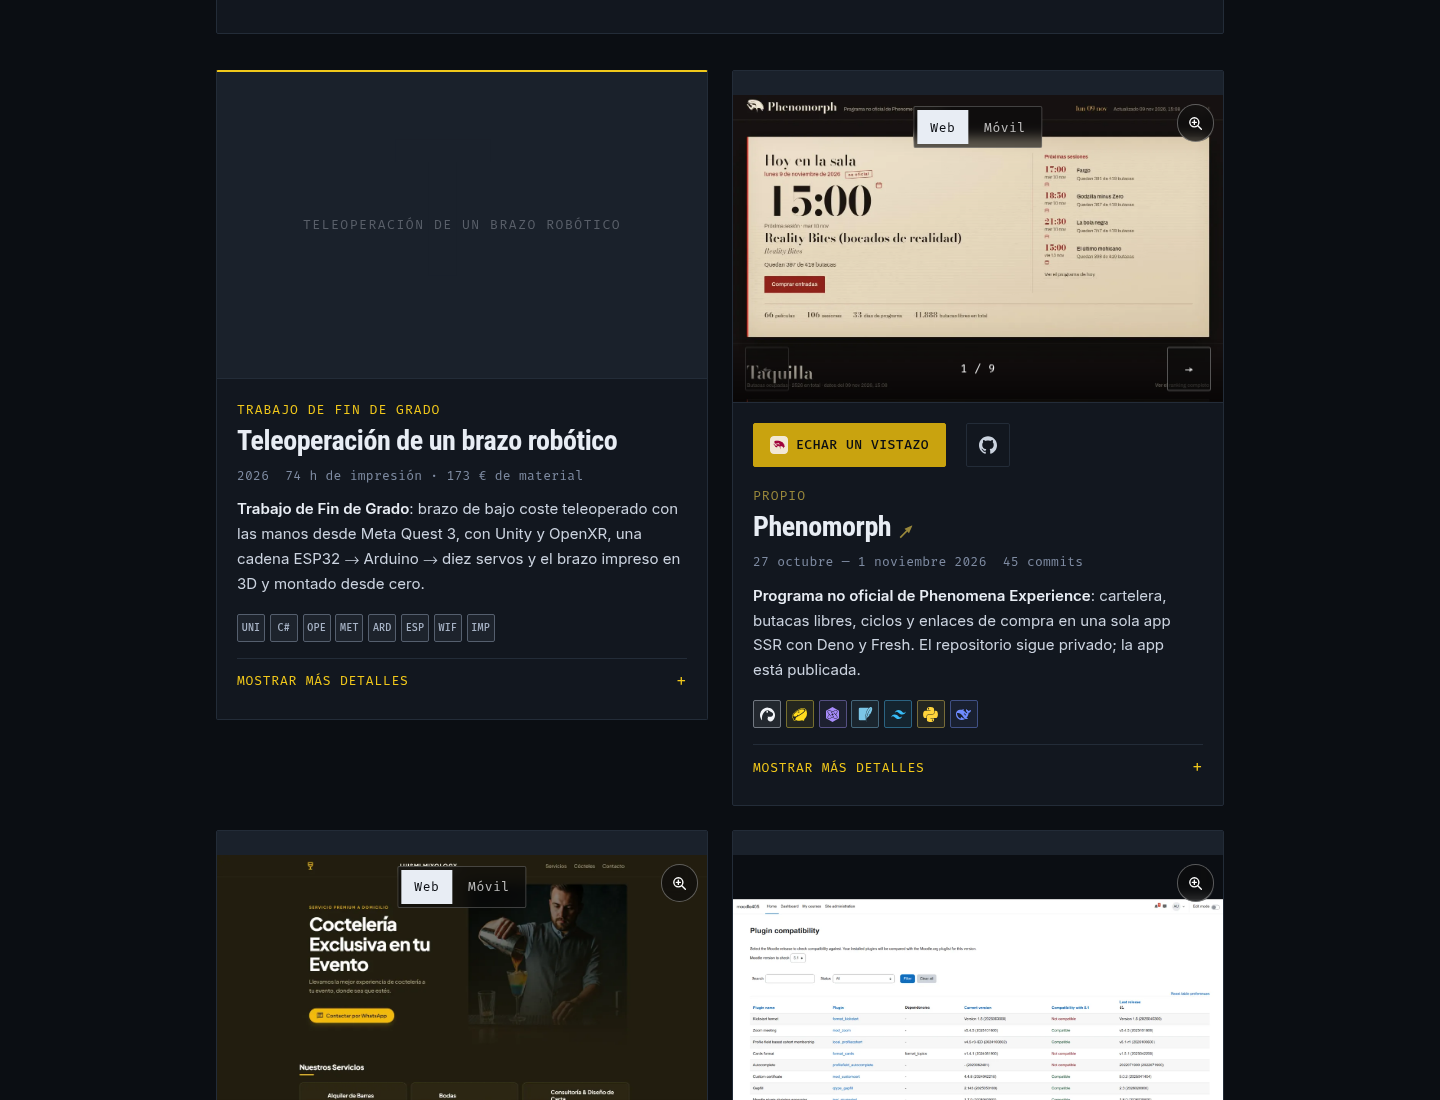
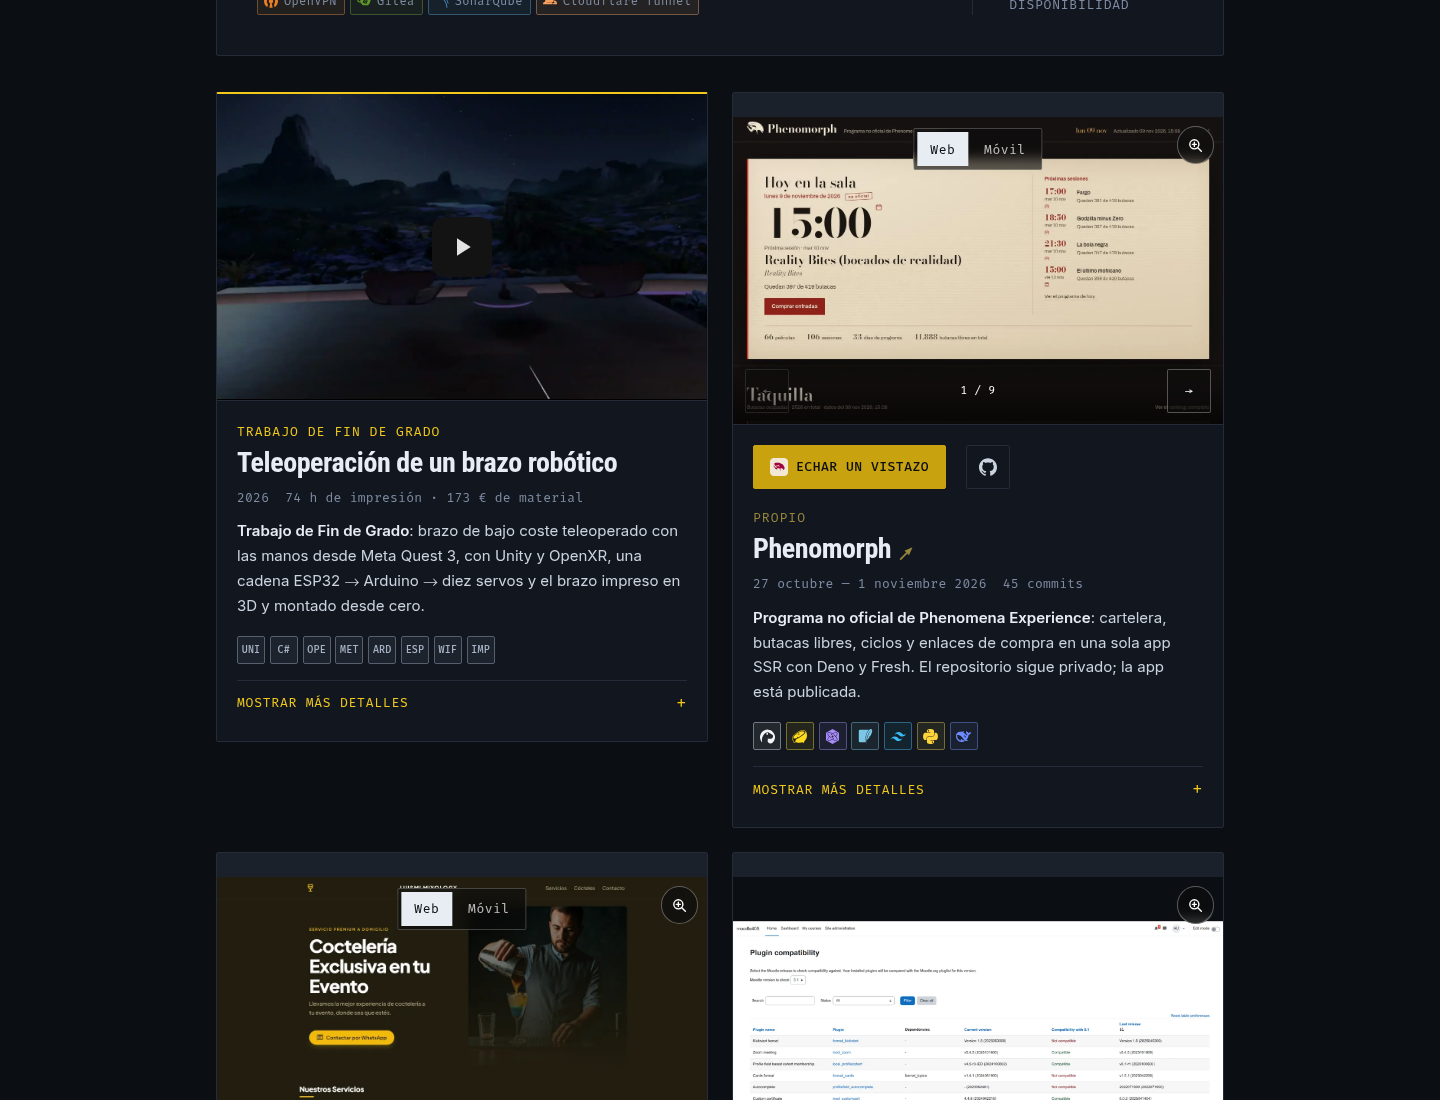
feat(projects): put the TFG video on the cover and its slides in the detail
- Project.video renders an embedded player in place of the cover, with a
  lazy-loaded iframe, a proper title and an explicit black backdrop.
- Captures that lost their slider to the video move into the detail block.
- Two defence slides join the gallery: the control chain (hand -> Quest 3
  -> ESP32 -> Arduino -> arm) and the tools of trade.
- Print hides the player instead of rendering an empty frame.

diff --git a/components/projects/ProjectCard.tsx b/components/projects/ProjectCard.tsx
@@ -51,6 +51,21 @@ function ProjectMedia(
     pack.images.length > 0
   );
 
+  if (project.video !== undefined) {
+    return (
+      <div class="project-cover project-cover--video">
+        <iframe
+          src={project.video.embed}
+          title={project.video.label}
+          loading="lazy"
+          allowFullScreen
+          allow="encrypted-media; picture-in-picture"
+          referrerpolicy="strict-origin-when-cross-origin"
+        />
+      </div>
+    );
+  }
+
   if (packs.length === 0) {
     return (
       <div
@@ -156,6 +171,9 @@ export function ProjectCard(
   );
   const ctaLink = demoLink ?? repoLink ?? project.links[0];
   const secondaryLinks = project.links.filter((link) => link !== ctaLink);
+  const packs = (project.gallery ?? []).filter((pack) =>
+    pack.images.length > 0
+  );
   const titleField = (
     <ProseField
       text={project.name}
@@ -314,6 +332,22 @@ export function ProjectCard(
                 ))}
               </ul>
             </FicheBlock>
+
+            {
+              /* When a video takes the cover, the captures have no slider to
+                live in: they move here, inside the detail block. */
+            }
+            {project.video !== undefined && packs.length > 0 && (
+              <div class="project-details-gallery">
+                <ProjectGallery
+                  groups={packs}
+                  projectSlug={project.slug}
+                  projectName={project.name}
+                  basePath={basePath}
+                  viewLabel={galleryViewLabel}
+                />
+              </div>
+            )}
           </div>
         </details>
       </div>

diff --git a/lib/content-types.ts b/lib/content-types.ts
@@ -297,6 +297,16 @@ export interface ProjectGalleryGroup {
   images: ProjectImage[];
 }
 
+/** A demo video embedded in the card's first-impact area. */
+export interface ProjectVideo {
+  /** Player URL, already in its embed/preview form. */
+  embed: string;
+  /** Accessible name for the player. */
+  label: string;
+  /** Optional link to the video itself, for embeds that refuse to load. */
+  href?: string;
+}
+
 /** One project card and the content of its collapsed detail block. */
 export interface Project {
   slug: string;
@@ -316,6 +326,11 @@ export interface Project {
    * example), opened from its own ghost button on the card.
    */
   diagram?: ProjectLink;
+  /**
+   * Demo video. It takes over the card's cover and is loaded lazily, so a
+   * player is only fetched when the card approaches the viewport.
+   */
+  video?: ProjectVideo;
   /**
    * Screenshot packs in source order. The first image of the first pack is
    * the card's cover; the rest live inside the collapsible detail block.

diff --git a/static/styles/projects.css b/static/styles/projects.css
@@ -68,6 +68,17 @@
   background: var(--surface-2);
 }
 
+/* A video replaces the screenshot as the card's impact image. The player
+   fills the same frame and shows black while it loads. */
+.project-cover--video iframe {
+  position: absolute;
+  inset: 0;
+  width: 100%;
+  height: 100%;
+  border: 0;
+  background: #000;
+}
+
 .project-cover img {
   display: block;
   width: 100%;
@@ -231,6 +242,15 @@
 .project-card-links .project-link-cta:focus-visible {
   border-color: #d8b31a;
   background: #d8b31a;
+}
+
+/* Captures that lost the cover to a video keep the same frame here. */
+.project-details-gallery {
+  margin-top: 1.5rem;
+}
+
+.project-details-gallery .gallery-media {
+  border: 1px solid var(--line);
 }
 
 /* The diagram is a side door, not the card's main action: a ghost button

diff --git a/static/styles/print.css b/static/styles/print.css
@@ -25,7 +25,8 @@
   .skip-to-content-link,
   .hero-actions,
   .footer-social,
-  .section-link {
+  .section-link,
+  .project-cover--video {
     display: none !important;
   }
 

diff --git a/content/05.projects/default.md b/content/05.projects/default.md
@@ -54,6 +54,9 @@ projects:
     period: '2026'
     work: 74 h de impresión · 173 € de material
     links: []
+    video:
+      label: 'Vídeo: la mano del operador mueve el brazo desde Meta Quest 3'
+      embed: 'https://drive.google.com/file/d/1ZRnbjAjVxOb8xDXBvJa9yVCptx7tpYNR/preview'
     problem: >-
       El TFG pedía un sistema completo, no una demo: **teleoperar con las manos** un brazo de bajo
       coste que responde a la pinza del operador, sin mandos ni menús flotantes, y que no se rompe
@@ -74,6 +77,21 @@ projects:
       - >-
         **Validación en banco y documentación**: pruebas funcionales, memoria técnica de 79 páginas,
         protocolo y guion de defensa.
+    gallery:
+      - view: web
+        label: Web
+        images:
+          - src: /projects/brazo-robotico/flujo-control.webp
+            alt: >-
+              Esquema del flujo de control: la mano del operador se captura en Meta Quest 3, que envía
+              las posiciones por UDP al ESP32; este las traduce a ángulos y las pasa por serie al
+              Arduino Mega 2560, que mueve los servos del brazo.
+            caption: 'Flujo de control: mano → Quest 3 → ESP32 → Arduino → brazo'
+          - src: /projects/brazo-robotico/herramientas.webp
+            alt: >-
+              Herramientas de trabajo: el ESP32 y el Arduino Mega con el IDE de Arduino a un lado y
+              las gafas Meta Quest 3 con Unity al otro, convergiendo en el brazo impreso en 3D.
+            caption: 'Herramientas: ESP32 + IDE de Arduino y Quest 3 + Unity'
   - slug: phenomorph
     name: Phenomorph
     kind: propio
